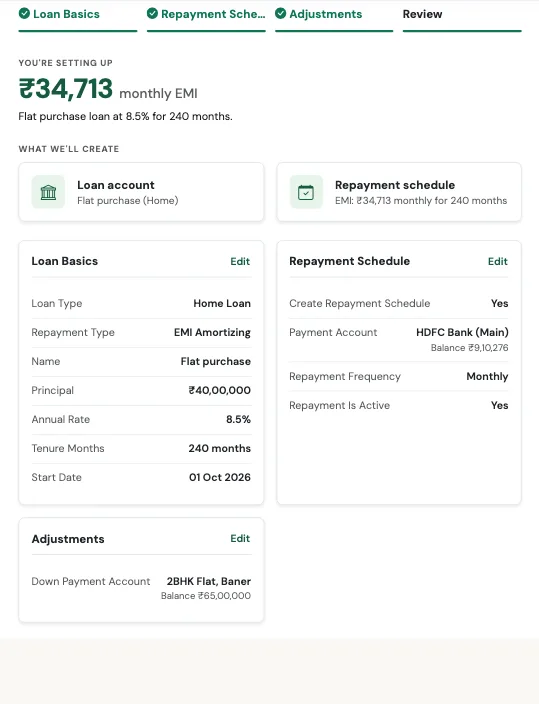
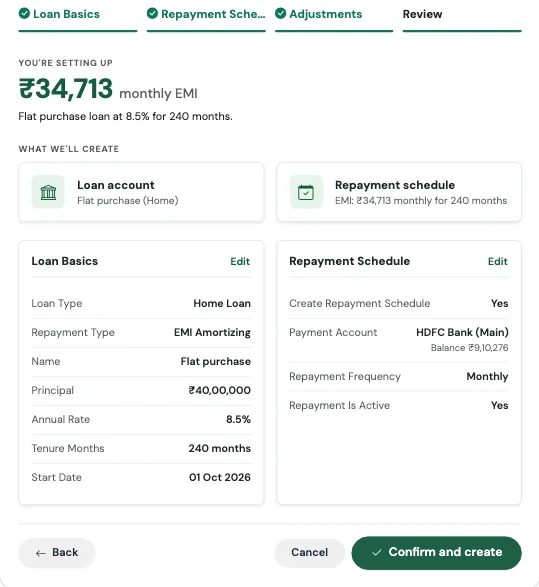
fix: flow review hides fields behind unticked boxes; Hindi/Marathi Accounts guide; manifest note
The loan and car flow review screens listed down payment / financing fields even when
their tickbox was off. Added conditional_fields so the review matches the form.

diff --git a/expenses/tests/test_flows.py b/expenses/tests/test_flows.py
@@ -2474,3 +2474,33 @@ class TestFlowLimitMessagingAndUI(TestCase):
 
 
 
+
+
+class ReviewHidesSwitchedOffFieldsTest(TestCase):
+    """The review screen lists only what the form showed: fields behind an unticked box are left out."""
+
+    def setUp(self):
+        from django.contrib.auth import get_user_model
+        self.user = get_user_model().objects.create_user('rvw', 'rvw@example.com', 'pw12345!x')
+        self.client.force_login(self.user)
+        from expenses.models import Account
+        self.bank = Account.objects.create(user=self.user, name='Main Bank', account_type='SAVINGS_ACCOUNT', balance=100000)
+
+    def review(self, data):
+        response = self.client.post('/flows/loan/preview/', data)
+        self.assertEqual(response.status_code, 200)
+        return response.content.decode()
+
+    def loan_data(self, **extra):
+        data = {'loan_type': 'HOME_LOAN', 'repayment_type': 'EMI', 'name': 'Flat', 'principal': '4000000',
+                'annual_rate': '8.5', 'tenure_months': '240', 'start_date': '2026-10-01',
+                'down_payment_account': self.bank.pk}
+        data.update(extra)
+        return data
+
+    def test_down_payment_account_is_not_listed_without_a_down_payment(self):
+        self.assertNotIn('Down Payment Account', self.review(self.loan_data()))
+
+    def test_down_payment_account_is_listed_when_ticked(self):
+        html = self.review(self.loan_data(include_down_payment='on', down_payment_amount='500000'))
+        self.assertIn('Down Payment Account', html)

diff --git a/expenses/flows/loan.py b/expenses/flows/loan.py
@@ -113,6 +113,14 @@ class NewLoanFlow(Flow):
         'mid_tenure': FlowAddon('mid_tenure', _('Mid-Tenure Entry'), ['opening_paid_principal', 'first_emi_date']),
         'down_payment': FlowAddon('down_payment', _('Down Payment'), ['down_payment_amount', 'down_payment_account', 'custom_note']),
     }
+    conditional_fields = {
+        'payment_account': 'create_repayment_schedule', 'repayment_amount': 'create_repayment_schedule',
+        'repayment_frequency': 'create_repayment_schedule', 'repayment_start_date': 'create_repayment_schedule',
+        'repayment_is_active': 'create_repayment_schedule',
+        'opening_paid_principal': 'mid_tenure', 'first_emi_date': 'mid_tenure',
+        'down_payment_amount': 'include_down_payment', 'down_payment_account': 'include_down_payment',
+        'custom_note': 'include_down_payment',
+    }
     wizard_steps = [
         FlowWizardStep('loan_basics', _('Loan Basics'), ['loan_type', 'repayment_type', 'name', 'principal', 'annual_rate', 'tenure_months', 'start_date'], _('Core loan details for principal, rate, and tenure.')),
         FlowWizardStep('loan_repayment', _('Repayment Schedule'), ['create_repayment_schedule', 'payment_account', 'repayment_amount', 'repayment_frequency', 'repayment_start_date', 'create_historical_entries', 'repayment_is_active'], _('Control if and how recurring loan repayments should be created.')),

diff --git a/expenses/flows/base.py b/expenses/flows/base.py
@@ -130,6 +130,9 @@ class Flow:
     addons: ClassVar[dict[str, FlowAddon]] = {}
     wizard_steps: ClassVar[list[FlowWizardStep]] = []
     form_class: ClassVar[type | None] = None
+    # field -> the tickbox that switches it on; the form hides such a field while the box is off, so the
+    # review screen must not list it either
+    conditional_fields: ClassVar[dict[str, str]] = {}
 
     def derive(self, cleaned_data) -> dict:
         return dict(cleaned_data)
@@ -580,6 +583,9 @@ class Flow:
             for field_name in step.fields:
                 field = form.fields.get(field_name)
                 if not field:
+                    continue
+                controller = self.conditional_fields.get(field_name)
+                if controller and not cleaned_data.get(controller):
                     continue
                 value = cleaned_data.get(field_name)
                 if value in (None, '', []):

diff --git a/expenses/flows/asset.py b/expenses/flows/asset.py
@@ -86,6 +86,9 @@ class CarFlow(Flow):
         'recurring_transactions': RecurringTransaction,
     }
     form_class = CarFlowForm
+    conditional_fields = {
+        'loan_name': 'financed', 'annual_rate': 'financed', 'tenure_months': 'financed', 'loan_start_date': 'financed',
+    }
     wizard_steps = [
         FlowWizardStep('car_basics', _('Car Details'), ['name', 'purchase_price', 'acquisition_date', 'from_account', 'is_pinned', 'custom_note'], _('Basic vehicle information and purchase account.')),
         FlowWizardStep('car_financing', _('Financing'), ['financed', 'loan_name', 'annual_rate', 'tenure_months', 'loan_start_date', 'create_historical_entries'], _('Loan details if the car was financed.')),

diff --git a/guide-src/02-accounts/index.mr.md b/guide-src/02-accounts/index.mr.md
@@ -6,12 +6,22 @@
 
 ## 1. खात्यांचे पेज उघडणे
 
-डेस्कटॉपवर **Sidebar → Accounts** वर जा, किंवा मोबाईलवर **Accounts** टॅबवर टॅप करा. हे पेज तुमची खाती रोख आणि बँक, फिक्स्ड-इन्कम आणि गुंतवणूक अशा प्रकारांमध्ये वर्गीकृत करते.
+डेस्कटॉपवर **Sidebar → Accounts** वर जा, किंवा मोबाइलवर खालच्या नेव्हिगेशनमधील **Accounts** टॅबवर टॅप करा.
 
-वर असलेले **Filtered Total Balance** कार्ड तुमच्या वर्तमान फिल्टरनुसार सर्व खात्यांची एकूण शिल्लक दाखवते.
+वरून खाली पानावर हे आहे:
 
-!!! info "Filtered Total Balance विरुद्ध निव्वळ संपत्ती (Net Worth)"
-    Filtered Total Balance फक्त सूचीबद्ध खात्यांमधील रोख रक्कम आणि एफडीची मुद्दल दाखवते. यामध्ये म्युच्युअल फंड होल्डिंग्सचे लाइव्ह मार्केट व्हॅल्यू किंवा कर्जाची वजावट समाविष्ट नसते. डॅशबोर्डवरील **Net Worth** कार्ड तुम्हाला संपूर्ण चित्र दाखवते.
+- **Net worth कार्ड**: तुमच्या स्वतःच्या चलनात एकूण रक्कम, एका महिन्यापूर्वीच्या तुलनेत बदल, तुमची मालमत्ता विभागणारी रंगीत पट्टी (रोख व बँक, फिक्स्ड-इन्कम, गुंतवणूक, भौतिक मालमत्ता इ.), आणि तुमच्याकडे किती आहे व कार्ड-कर्जांवर किती देणे आहे ते दाखवणारी एक ओळ. फक्त त्या प्रकारची खाती पाहण्यासाठी पट्टीच्या यादीतील नावावर क्लिक करा.
+- **Needs your attention**: लवकर लक्ष द्यायच्या गोष्टींचे छोटे चिप: पुढील 10 दिवसांत देय क्रेडिट कार्ड बिल, पुढील 6 महिन्यांत परिपक्व होणाऱ्या ठेवी (आणि नंतरच्या तारखांना आणखी किती), आणि 30 दिवस किंवा अधिक काळ अपडेट न झालेल्या शिल्लक रकमा.
+- **गट टाइल्स**: प्रत्येक खाते-प्रकाराची एक टाइल, त्याची एकूण रक्कम आणि खात्यांची संख्या दाखवते. फक्त तीच खाती पाहण्यासाठी टाइलवर क्लिक करा, सर्व पाहण्यासाठी पुन्हा क्लिक करा. **Owed on cards** आणि **Owed on loans** देणे लाल रंगात दाखवतात.
+- **All / Pinned / Needs update टॅब**: यादी पिन केलेल्या खात्यांवर, किंवा हाताने ठेवल्या जाणाऱ्या शिल्लक रकमांवर (ठेवी, होल्डिंग्स, मालमत्ता, विमा) बदला ज्या 30+ दिवस जुन्या आहेत. रोख आणि कार्डच्या शिल्लक रकमा कधीही जुन्या मानल्या जात नाहीत कारण प्रत्येक व्यवहार त्यांना अपडेट करतो.
+- **यादी**: शिल्लक रक्कम, शेवटच्या अपडेटचे वय (जुन्या शिल्लकीवर लगेच **Update** लिंकसह), ठेवींसाठी व्याजदर आणि परिपक्वता तारीख, आणि क्रेडिट कार्डसाठी मर्यादा, उपलब्ध क्रेडिट आणि पुढील बिल तारीख. ओळीतील ⋮ मेनूमधून खाते पाहा, जुळवा, संपादित करा, पिन करा किंवा हटवा. यादी पहिली पाच खाती दाखवते; उरलेल्यांसाठी **Show all** दाबा.
+
+शोध बॉक्स, **+ Filter** (खाते प्रकार, स्थिती, पिन, अपडेट हवे) आणि क्रम मेनू पानाच्या वरच्या भागात आहेत. शोध आणि फिल्टर फक्त यादी मर्यादित करतात; Net worth कार्ड, टाइल्स आणि टॅबची संख्या नेहमी तुमच्या सर्व खात्यांचे वर्णन करतात.
+
+प्रत्येक खात्याचे मूल्य Net Worth ज्या पद्धतीने लावते तसेच लावले जाते: फंडाचे बाजारमूल्य, ठेवीवरील जमा व्याज, कर्जाची थकित मूळ रक्कम. दुसऱ्या चलनातील खाती एकदा रूपांतरित केली जातात, आणि **क्रेडिट कार्ड व कर्जांवर देणे असलेली रक्कम ऋण म्हणून मोजली जाते**.
+
+!!! info "खात्यांची निव्वळ संपत्ती विरुद्ध डॅशबोर्ड Net Worth"
+    खात्यांची निव्वळ संपत्ती आणि डॅशबोर्डचे **Net Worth** कार्ड एकाच खात्यांवर जुळतात. Net Worth दोन गोष्टी आणखी जोडते ज्या खात्यांची यादी दाखवू शकत नाही: [उद्दिष्टांमध्ये](../12-goals/index.md) बाजूला ठेवलेले पैसे (ते अजूनही तुमचेच आहेत) आणि कर्ज खात्याशी न जोडलेले कोणतेही सक्रिय कर्ज.
 
 ---
 

diff --git a/guide-src/02-accounts/index.hi.md b/guide-src/02-accounts/index.hi.md
@@ -6,12 +6,22 @@
 
 ## 1. खाते का पृष्ठ खोलना
 
-डेस्कटॉप पर **Sidebar → Accounts** पर जाएँ, या मोबाइल पर निचले नेविगेशन में **Accounts** टैब पर टैप करें। यह पृष्ठ आपके खातों को संपत्ति श्रेणियों जैसे नकद और बैंक, फिक्स्ड-इनकम और निवेश में समूहित करता है।
+डेस्कटॉप पर **Sidebar → Accounts** पर जाएँ, या मोबाइल पर निचले नेविगेशन में **Accounts** टैब पर टैप करें।
 
-शीर्ष पर **Filtered Total Balance** कार्ड आपके वर्तमान फ़िल्टर से मेल खाने वाले सभी खातों की संयुक्त शेष राशि दिखाता है।
+ऊपर से नीचे पृष्ठ में ये हैं:
 
-!!! info "फ़िल्टर की गई कुल शेष राशि बनाम निवल संपत्ति"
-    Filtered Total Balance सूचीबद्ध खातों के लिए नकद और संचित जमा शेष का योग दिखाता है। इसमें म्यूचुअल फंड होल्डिंग्स का लाइव बाजार मूल्य, अचल संपत्ति का मूल्यांकन, या बकाया ऋणों की कटौती शामिल नहीं है। डैशबोर्ड **Net Worth** कार्ड आपको संपूर्ण चित्र देता है।
+- **Net worth कार्ड**: आपकी अपनी मुद्रा में कुल राशि, एक महीने पहले की तुलना में बदलाव, आपकी संपत्ति को बाँटने वाली रंगीन पट्टी (नकद और बैंक, फिक्स्ड-इनकम, निवेश, भौतिक संपत्ति आदि), और एक पंक्ति जिसमें आपके पास कितना है और कार्ड व ऋण पर कितना बकाया है। केवल उसी प्रकार के खाते देखने के लिए पट्टी की सूची में किसी नाम पर क्लिक करें।
+- **Needs your attention**: जिन पर जल्द ध्यान देना है उनके छोटे चिप: अगले 10 दिनों में देय क्रेडिट कार्ड बिल, अगले 6 महीनों में परिपक्व होने वाली जमाएँ (और बाद की तारीखों पर कितनी और हैं), और वे शेष राशियाँ जो 30 दिन या उससे अधिक से अपडेट नहीं हुईं।
+- **समूह टाइल**: हर प्रकार के खातों की एक टाइल, जिसमें उसका कुल और खातों की संख्या होती है। केवल वही खाते देखने के लिए टाइल पर क्लिक करें, सभी देखने के लिए दोबारा क्लिक करें। **Owed on cards** और **Owed on loans** बकाया राशि लाल रंग में दिखाते हैं।
+- **All / Pinned / Needs update टैब**: सूची को पिन किए खातों पर, या हाथ से रखी जाने वाली शेष राशियों (जमा, होल्डिंग्स, संपत्ति, बीमा) पर बदलें जो 30+ दिन पुरानी हैं। नकद और कार्ड की शेष राशियाँ कभी पुरानी नहीं मानी जातीं क्योंकि हर लेन-देन उन्हें अपडेट करता है।
+- **सूची**: शेष राशि, आख़िरी अपडेट की उम्र (पुरानी शेष राशि पर तुरंत **Update** लिंक के साथ), जमा के लिए ब्याज दर और परिपक्वता तिथि, और क्रेडिट कार्ड के लिए सीमा, उपलब्ध क्रेडिट और अगली बिल तिथि। किसी पंक्ति के ⋮ मेनू से खाता देखें, मिलान करें, संपादित करें, पिन करें या हटाएँ। सूची पहले पाँच खाते दिखाती है; बाकी के लिए **Show all** दबाएँ।
+
+खोज बॉक्स, **+ Filter** (खाता प्रकार, स्थिति, पिन, अपडेट आवश्यक) और क्रम मेनू पृष्ठ के शीर्ष पर हैं। खोज और फ़िल्टर केवल सूची को सीमित करते हैं; Net worth कार्ड, टाइल और टैब की गिनती हमेशा आपके सभी खातों का वर्णन करती है।
+
+हर खाते का मूल्य वैसे ही लगाया जाता है जैसे Net Worth लगाता है: फंड का बाज़ार मूल्य, जमा का संचित ब्याज, ऋण की बकाया मूल राशि। दूसरी मुद्रा के खाते एक बार परिवर्तित होते हैं, और **क्रेडिट कार्ड व ऋण पर जो बकाया है वह ऋणात्मक गिना जाता है**।
+
+!!! info "खातों की निवल संपत्ति बनाम डैशबोर्ड Net Worth"
+    खातों की निवल संपत्ति और डैशबोर्ड का **Net Worth** कार्ड एक ही खातों पर एकमत होते हैं। Net Worth दो चीज़ें और जोड़ता है जो खातों की सूची नहीं दिखा सकती: [लक्ष्यों](../12-goals/index.md) में अलग रखा गया पैसा (वह अब भी आपका है) और कोई भी सक्रिय ऋण जो किसी ऋण खाते से जुड़ा नहीं है।
 
 ---
 

diff --git a/guide-src/screenshots/MANIFEST.md b/guide-src/screenshots/MANIFEST.md
@@ -5,7 +5,8 @@
 > `scripts/capture_guide_screenshots.mjs` from the demo account. Start the app
 > (`python manage.py runserver 8000`), then run `node scripts/capture_guide_screenshots.mjs`
 > (all shots) or `node scripts/capture_guide_screenshots.mjs accounts-list` (shots whose file name contains
-> the text). It needs Google Chrome and Node 22+. The list below is the older capture checklist.
+> the text). It needs Google Chrome and Node 22+. The guide uses desktop screenshots only, so the older
+> checklist below (with its mobile shots) is no longer a to-do list; it only records which screens the guide covers.
 
 > **Note on 00-philosophy:** The Philosophy page (guide root `00-philosophy.md`) has no
 > dedicated screenshot folder. Its screenshot placeholders point into `01-getting-started/`
